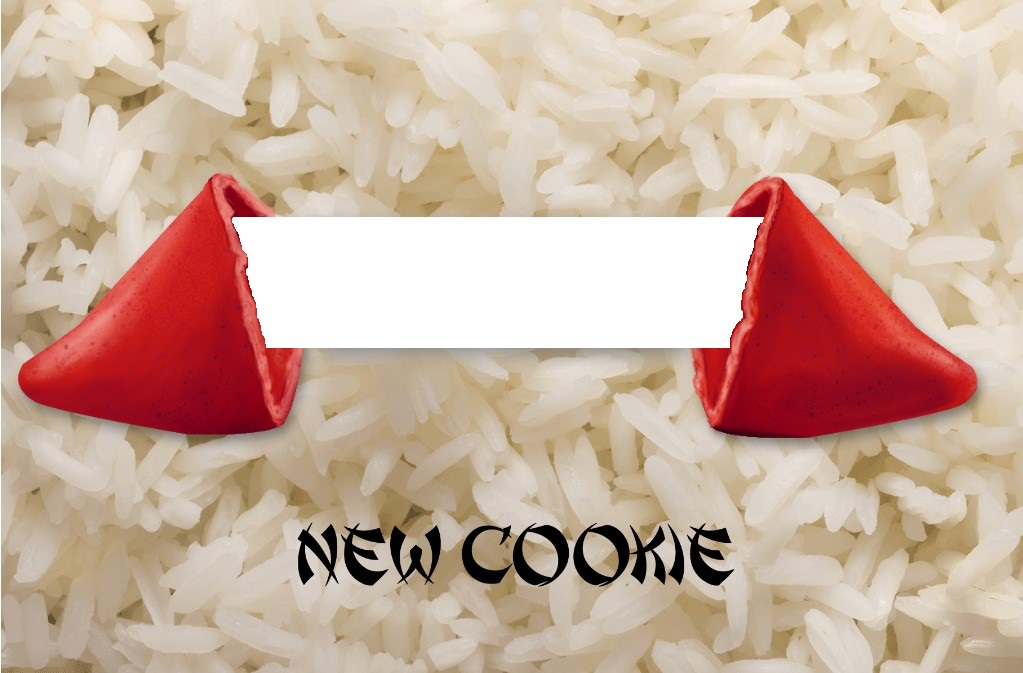
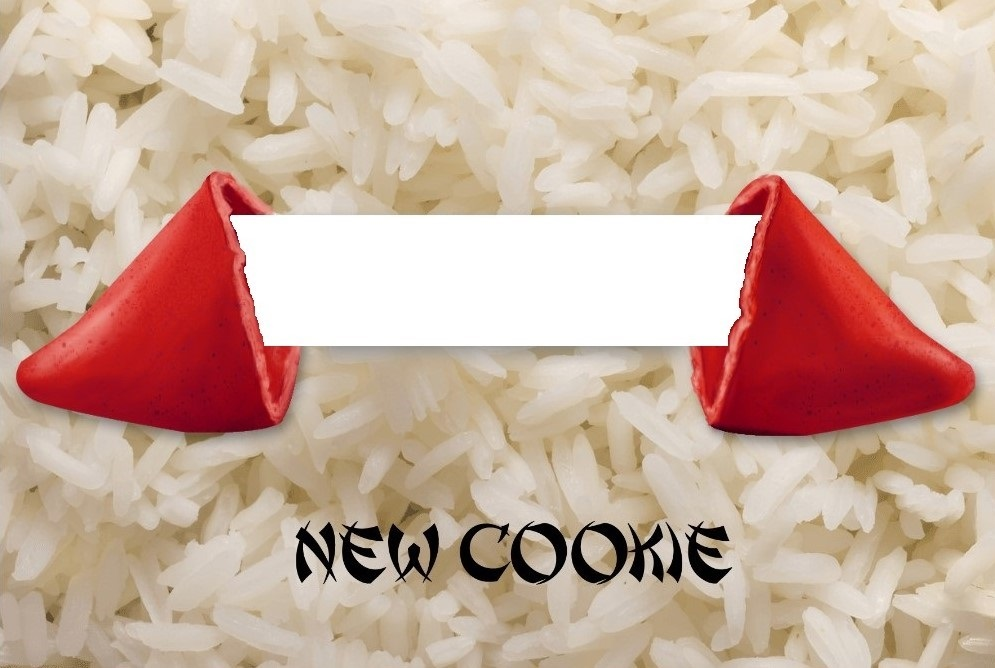
modified an image a bit to remove white edges

diff --git a/Free Code Camp/Projects/Quote_Machine/css/style.css b/Free Code Camp/Projects/Quote_Machine/css/style.css
@@ -2,5 +2,6 @@ body {
     background-image: url("../img/cookie.jpg");
     background-repeat: no-repeat;
     background-attachment: fixed;
-    background-position: center; 
+    background-position: center;
+    background-color: lightblue;
 }
